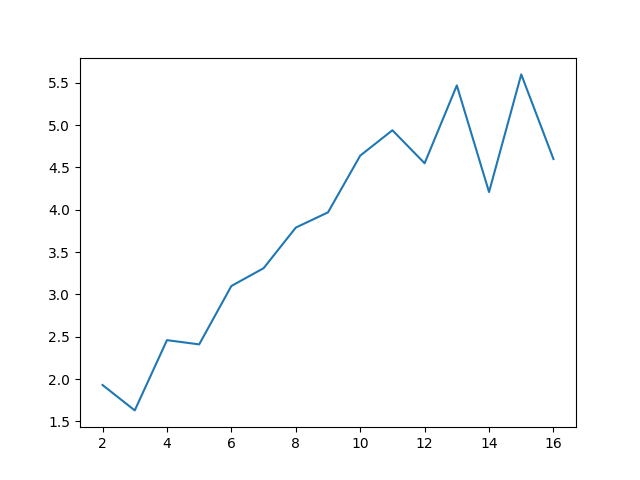
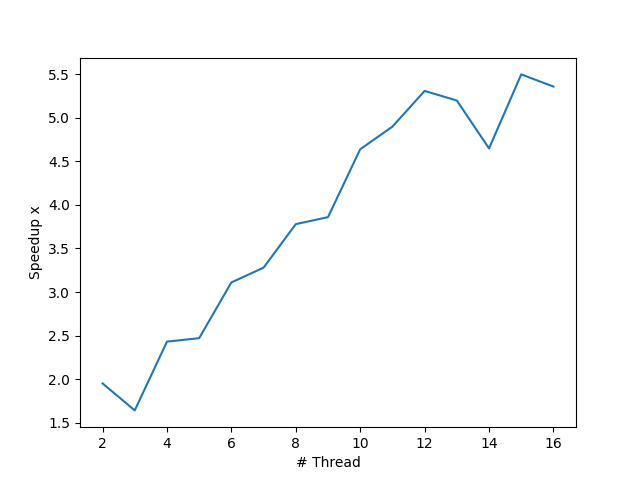
FINISH PROJ1 PART1 | Change the format

diff --git a/PROJ1/prog1_mandelbrot_threads/test.py b/PROJ1/prog1_mandelbrot_threads/test.py
@@ -11,6 +11,8 @@ for i in thread_num:
   rate = float(myoutput[rate_begin+1:rate_begin+5])
   speedup_res.append(rate)
 fig = plt.figure()
+plt.xlabel("# Thread")
+plt.ylabel("Speedup x")
 plt.plot(thread_num, speedup_res)
 plt.savefig("rate.png")
 plt.show()
